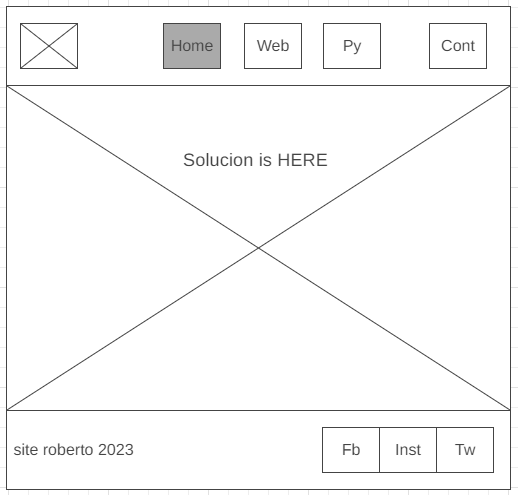
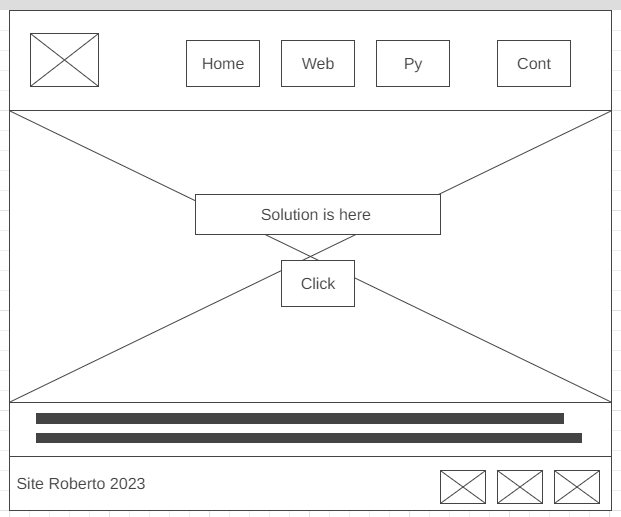
personal site

diff --git a/robtec/styles/style.css b/robtec/styles/style.css
@@ -1,0 +1,272 @@
+/* if you are using any Google fonts change the font names below to your fonts. 
+Any spaces in your font name should be replaced with a +. 
+Fonts are separated by a & */
+
+@import url('https://fonts.googleapis.com/css2?family=Roboto:ital,wght@0,400;0,900;1,400&display=swap');
+
+
+header {
+    background-color:#021321	;
+    font-family: 'Roboto';
+    display: grid;
+    grid-template-columns: 150px auto;
+
+}
+nav {
+    display: flex;
+    justify-content: space-around;
+}
+nav a:hover {
+    background-color: #818388;
+    color: white;
+    border-radius: 5px;
+}
+nav a {
+    text-align: center;
+    color: #5BE1E6;
+    text-decoration: none;
+    padding: 35px;
+} 
+#content {
+    max-width: 1600px;
+    margin: 0 auto; 
+}
+
+.logotipo{ 
+    width: 100px;
+    padding-top: 5px;
+    justify-self: center;
+    align-self: center;
+}
+
+#hero {
+    display: grid;
+    grid-template-columns: 1fr 3fr 1fr;
+    
+}
+.home1{
+    width: 100%;
+}
+#hero-box {
+    width: 100%;
+    grid-column: 1/4;
+    grid-row: 1/3;
+    z-index: -1;
+}
+
+#hero-msg{
+    grid-column: 2/3;
+    grid-row: 1/2;
+    margin-top: 200px;
+} 
+
+#hero-msg h1, h2, h4, .button-box {
+    text-align: center;  
+} 
+
+main section {
+    text-align: center;
+    
+} 
+
+body {
+    background-color:#021321; 
+    font-family: 'Roboto', 'Helvetica', 'sans-serif';
+    font-size: 22px;
+    margin: 0;
+    padding: 0;
+}
+
+.home-title {
+    background-color: #818388 ;
+    border-radius: 50px;
+    color: #5BE1E6;
+    font-family: 'Roboto';
+    font-size: 2em;
+    margin-top: 10px;
+}
+
+.book {
+    background-color: #818388 ;
+    color: black;
+    text-decoration: none;
+    font-size: 18px ;
+    padding: 15px 30px;
+    margin-top: 50px;
+    border-radius: 50px;
+}
+
+.book:hover{
+    background-color: white;
+    color: black;
+    opacity: .6;
+}
+h2{
+    color: white;
+    font-size: 28px;
+}
+
+h4{
+    color: white;  
+}
+
+footer{
+    background-color: white ;
+    padding: 25px 50px;
+    margin-top: 50px;
+    display: flex;
+    justify-content: space-around;
+    align-items: center;
+}
+
+footer a{
+    color: black;
+    text-decoration: none;
+}
+
+footer a:hover{
+    color: black;
+}
+
+footer p {
+    font-size: 1.2em;
+}   
+
+footer p a:hover {
+    text-decoration: underline;
+}   
+ 
+
+footer .social img {
+    padding-top: 15px;
+}  
+
+.contactus{
+    margin-top: +50px;
+}
+
+form {
+    /* Center the form on the page */
+    
+    margin: 0 auto;
+    width: 400px;
+    /* Form outline */
+    padding: 1em;
+    border: 3px solid #ccc;
+    border-radius: 1em;
+  }
+  
+  ul {
+   
+    list-style: none;
+    padding: 0;
+    margin: 0;
+  }
+  
+  form li + li {
+    margin-top: 1em;
+  }
+  
+  label {
+    /* Uniform size & alignment */
+    display: inline-block;
+    width: 90px;
+    text-align: right;
+    color: #fff;
+  }
+  
+  input,
+  textarea {
+    /* To make sure that all text fields have the same font settings
+       By default, textareas have a monospace font */
+    font: 1em sans-serif;
+  
+    /* Uniform text field size */
+    width: 300px;
+    box-sizing: border-box;
+  
+    /* Match form field borders */
+    border: 1px solid #999;
+  }
+  
+  input:focus,
+  textarea:focus {
+    /* Additional highlight for focused elements */
+    border-color: white;
+  }
+  
+  textarea {
+    /* Align multiline text fields with their labels */
+    vertical-align: top;
+  
+    /* Provide space to type some text */
+    height: 5em;
+  }
+  
+  .button {
+    /* Align buttons with the text fields */
+    padding-left: 90px; /* same size as the label elements */
+  }
+  
+  button {
+    /* This extra margin represent roughly the same space as the space
+       between the labels and their text fields */
+    margin-left: 0.5em;
+  }
+  #feedback {
+    background-color: antiquewhite;
+    position: absolute;
+    top: 0;
+    left: 0;
+    right: 0;
+    padding: .5em;
+    /* make this element invisible until we are ready for it */
+    display: none;      
+}
+.moveDown {
+    margin-top: 3em;
+}
+
+
+
+@media screen and (max-width: 900px) {
+    #hero, .home-grid {
+        display: block;
+        height: auto;
+    }
+    nav, footer {
+        flex-direction: column;
+    }
+    nav a {
+        display: block;
+        padding: 15px;
+    }
+    #hero {
+        margin-top: 0;
+    }
+    #hero-msg {
+        margin-top: 0;
+    }
+    #hero-msg h4 {
+        display: none;
+    }
+    .home-title {
+        font-size: 25px;
+        color: #6f7364;
+    }
+    .rivers-card, .camping-card, .rapids-card { 
+        margin: 50px auto;
+        width: 60%;
+    }
+    #background {
+        display: none;
+    }
+    .mountains, .msg {
+        width: 80%;
+        display: block;
+        margin: 0 auto;
+    }
+    footer {
+        margin-top: 25px;
+    }
+}

diff --git a/robtec/index.html b/robtec/index.html
@@ -10,7 +10,7 @@
     <div id="content">
 <header>
     <a id="logo_link" href="index.html">
-        <img class="logotipo" src="images/logotipo.png" alt="RobTec">
+        <img class="logotipo" src="images/logotipo1.jpeg" alt="RobTec">
 
     </a>
     <nav>
@@ -20,33 +20,24 @@
         <a href="contactus.html">Contact Us</a>
     </nav>
 </header>
-
-<h3>Home page</h3>
-      
-      <p>Images for the Home page</p>
-        <img src="images\home1.jpg" alt="home 1">
-        <img src="images/home2.jpg" alt="home 2">
-
-      </ul>
-
-
-
-
-
-
+     
 <div id="hero">
+    <div id="hero-box">
+        <img class=home1 src="images/home1.jpg" alt="home 1">
+    </div>
+   
+
     <section id="hero-msg">
         <h1 class="home-title">The Solution is HERE</h1>
-        <h4>Contact us or send us a message to solve your problem as quickly as possible. </h4>
         <div class='button-box'>
             <a class='book' href="contactus.html">Click Now</a>
         </div>
     </section>
 </div>
-
-
 <main >
     
+    <h2>Contact us or send us a message to solve your problem as quickly as possible. </h2>
+
 </main>
 <footer>
     <p>Roberto Technology &copy; 2023 - Roberto Soares</p>

diff --git a/robtec/styles/site-plan.css b/robtec/styles/site-plan.css
@@ -9,7 +9,7 @@ Fonts are separated by a | */
   --primary-color: #021321 ;
   --secondary-color: #818388 ;
   --accent1-color: #5BE1E6;
-  --accent2-color: #02FCFD;
+  --accent2-color: white;
 
   /* change the values below to your chosen font(s) */
   --heading-font: "Roboto", sans-serif;
@@ -21,7 +21,7 @@ Fonts are separated by a | */
   --paragraph-color-on-white: #021321; /* paragraph text on a white background */ 
   --paragraph-color-on-color: white; /* paragraph text on a colored background */ 
   --paragraph-background-color: #021321  ;
-  --nav-link-color: #02FCFD;
+  --nav-link-color: #5BE1E6;
   --nav-background-color: #021321;
   --nav-hover-link-color: white;
   --nav-hover-background-color: #818388;

diff --git a/robtec/site-plan.html b/robtec/site-plan.html
@@ -36,7 +36,7 @@
       <h2>Branding</h2>
       <h3>Website Logo</h3>
       <!-- Replace this with some sort of logo for your site.  A logo can be as simple as the name of your site in a nice font :) -->
-      <img class="logotipo" src="images/logotipo.png" alt="RobTec">
+      <img class="logotipo" src="images/logotipo1.jpeg" alt="RobTec">
       <hr>
       <h2>
         Style Guide
@@ -154,7 +154,6 @@
       </p>
       <p>Images for the Home page</p>
         <img src="images\home1.jpg" alt="home 1"style="width:600px;height:401px;">
-        <img src="images/home2.jpg" alt="home 2"style="width:300px;height:401px;">
 
       </ul>
       <h3>Website Projects</h3>

diff --git a/robtec/contactus.html b/robtec/contactus.html
@@ -10,7 +10,7 @@
     <div id="content">
 <header>
     <a id="logo_link" href="index.html">
-        <img class="logotipo" src="images/logotipo.png" alt="RobTec">
+        <img class="logotipo" src="images/logotipo1.jpeg"  alt="RobTec">
 
     </a>
     <nav>

diff --git a/robtec/pythonprojects.html b/robtec/pythonprojects.html
@@ -10,7 +10,7 @@
     <div id="content">
 <header>
     <a id="logo_link" href="index.html">
-        <img class="logotipo" src="images/logotipo.png" alt="RobTec">
+        <img class="logotipo" src="images/logotipo1.jpeg" alt="RobTec">
 
     </a>
     <nav>

diff --git a/robtec/websiteprojects.html b/robtec/websiteprojects.html
@@ -10,7 +10,7 @@
     <div id="content">
 <header>
     <a id="logo_link" href="index.html">
-        <img class="logotipo" src="images/logotipo.png" alt="RobTec">
+        <img class="logotipo" src="images/logotipo1.jpeg"alt="RobTec">
 
     </a>
     <nav>
